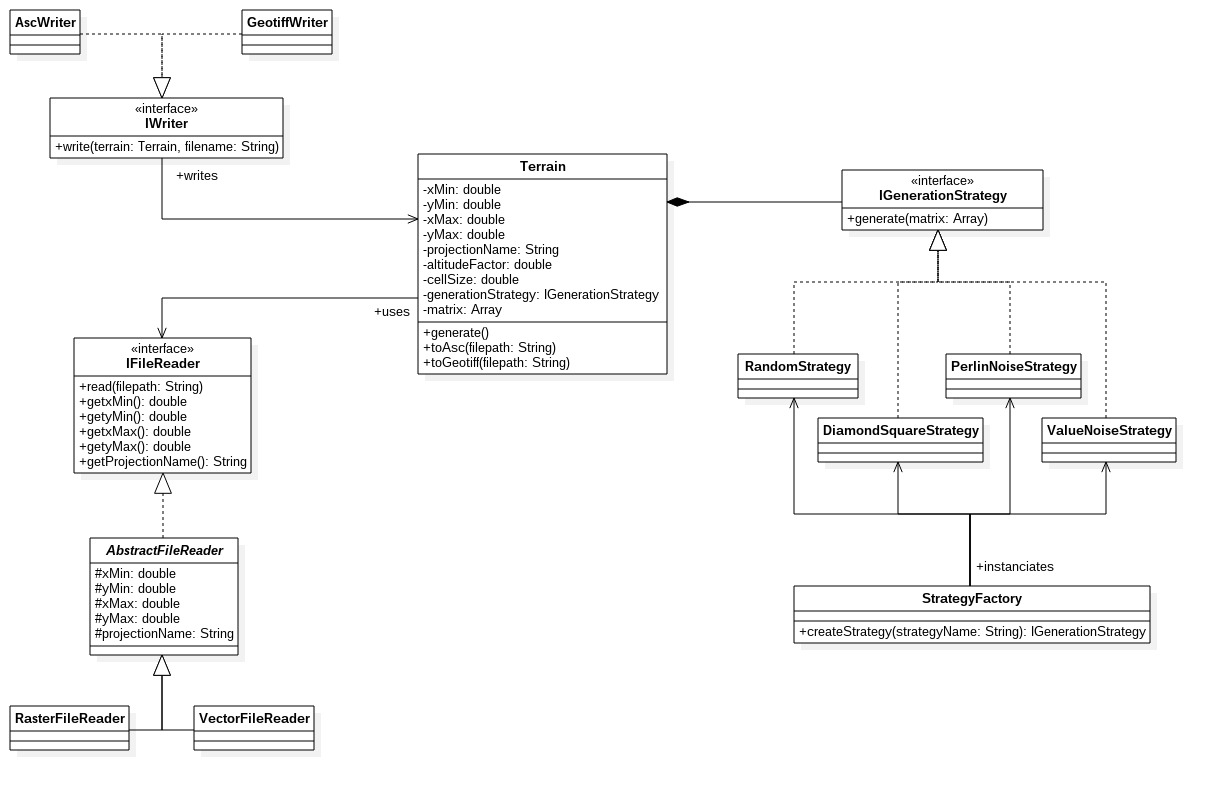
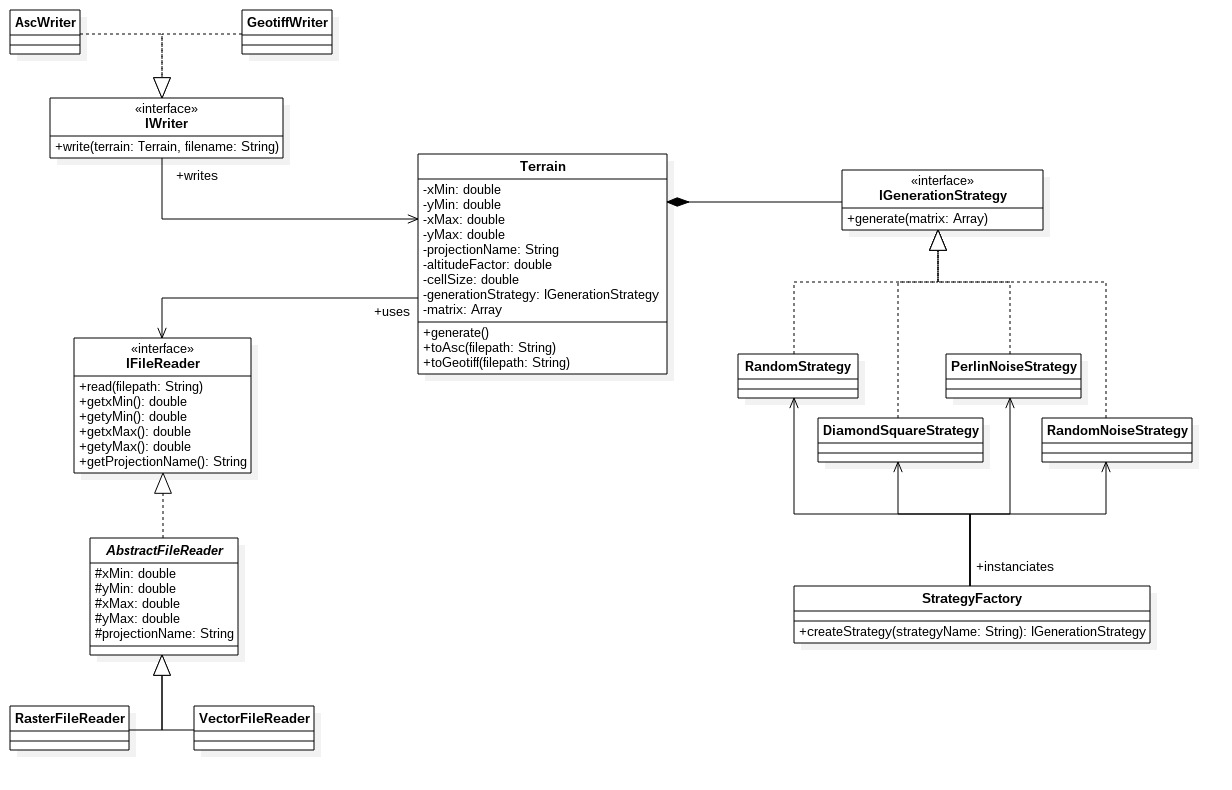
valueNoise -> randomNoise

diff --git a/src/main/java/eu/ensg/tsi/azarzelli/gama/generation/RandomNoiseStrategy.java b/src/main/java/eu/ensg/tsi/azarzelli/gama/generation/RandomNoiseStrategy.java
@@ -1,0 +1,58 @@
+package eu.ensg.tsi.azarzelli.gama.generation;
+
+/**
+ * Value noise DEM generation
+ */
+public final class RandomNoiseStrategy implements IGenerationStrategy {
+
+    /**
+     * Fills a matrix with generated values
+     * @param matrix
+     */
+    @Override
+    public void generate(double[][] matrix) {
+    	int nrows = matrix.length;
+        int ncols = matrix[0].length;
+        
+        // Getting the largest dimension of the matrix
+        int largestDimension = Math.max(nrows, ncols);
+        
+        int powerOfTwo = largestDimension;
+        // Calculating the smallest power of 2 above the largest dimension 
+        // if it isn't a power of 2 itself using bitwise shift, and adding one
+        if (Integer.highestOneBit(largestDimension) != Integer.lowestOneBit(largestDimension)) {
+        	powerOfTwo = Integer.highestOneBit(largestDimension << 1);
+        } 
+        
+        
+        double[][] firstSquare = new double[powerOfTwo][powerOfTwo];
+        
+        while(powerOfTwo>=1) {
+        	octave(firstSquare, powerOfTwo);
+        	powerOfTwo /= 2;
+        }
+        
+        for(int y = 0; y < matrix.length; y++) {
+        	for(int x = 0; x < matrix[0].length; x++) {
+        		matrix[y][x] = firstSquare[y][x];
+        	}
+        }
+    }
+    
+    private void octave(double[][] matrix, int octaveLength) {
+    	
+    	for (int i = 0; i<matrix.length; i+=octaveLength) {
+        	for (int j = 0; j<matrix[0].length; j+=octaveLength) {
+    	
+        		double newValue = Math.random() * octaveLength;
+    	
+		    	for (int y = 0; y<i; y++) {
+		        	for (int x = 0; x<j; x++) {
+		        		matrix[y][x] += newValue;
+		        	}
+		        }
+        	}
+    	}
+    }
+
+}

diff --git a/src/main/java/eu/ensg/tsi/azarzelli/gama/domain/StrategyFactory.java b/src/main/java/eu/ensg/tsi/azarzelli/gama/domain/StrategyFactory.java
@@ -5,7 +5,7 @@ import eu.ensg.tsi.azarzelli.gama.generation.DiamondSquareStrategy;
 import eu.ensg.tsi.azarzelli.gama.generation.IGenerationStrategy;
 import eu.ensg.tsi.azarzelli.gama.generation.PerlinNoiseStrategy;
 import eu.ensg.tsi.azarzelli.gama.generation.RandomStrategy;
-import eu.ensg.tsi.azarzelli.gama.generation.ValueNoiseStrategy;
+import eu.ensg.tsi.azarzelli.gama.generation.RandomNoiseStrategy;
 
 /**
  * Factory class for the strategies, used to encapsulate the creation
@@ -27,8 +27,8 @@ public class StrategyFactory {
         	return new DiamondSquareStrategy();
         } else if (strategyName.equals("perlinnoise")) {
         	return new PerlinNoiseStrategy();
-        } else if (strategyName.equals("valuenoise")) {
-        	return new ValueNoiseStrategy();
+        } else if (strategyName.equals("randomnoise")) {
+        	return new RandomNoiseStrategy();
         } else {
         	throw new GenerationMethodNotFoundException();
         }

diff --git a/src/test/java/eu/ensg/tsi/azarzelli/gama/domain/StrategyFactoryTest.java b/src/test/java/eu/ensg/tsi/azarzelli/gama/domain/StrategyFactoryTest.java
@@ -9,7 +9,7 @@ import eu.ensg.tsi.azarzelli.gama.generation.DiamondSquareStrategy;
 import eu.ensg.tsi.azarzelli.gama.generation.IGenerationStrategy;
 import eu.ensg.tsi.azarzelli.gama.generation.PerlinNoiseStrategy;
 import eu.ensg.tsi.azarzelli.gama.generation.RandomStrategy;
-import eu.ensg.tsi.azarzelli.gama.generation.ValueNoiseStrategy;
+import eu.ensg.tsi.azarzelli.gama.generation.RandomNoiseStrategy;
 
 public class StrategyFactoryTest {
 
@@ -30,8 +30,8 @@ public class StrategyFactoryTest {
 		strategy = factory.createStrategy("perlinnoise");
 		assertTrue(strategy instanceof PerlinNoiseStrategy);
 		
-		strategy = factory.createStrategy("valuenoise");
-		assertTrue(strategy instanceof ValueNoiseStrategy);
+		strategy = factory.createStrategy("randomnoise");
+		assertTrue(strategy instanceof RandomNoiseStrategy);
 		
 		strategy = factory.createStrategy("diamondsquare");
 		assertTrue(strategy instanceof DiamondSquareStrategy);

diff --git a/src/test/java/eu/ensg/tsi/azarzelli/gama/domain/TerrainTest.java b/src/test/java/eu/ensg/tsi/azarzelli/gama/domain/TerrainTest.java
@@ -123,6 +123,10 @@ public class TerrainTest {
 		Terrain terrain = new Terrain("diamondsquare",128,128);
 		terrain.generate();
 		terrain.toGeotiff("src/test/resources/diamondsquare.tif");
+		
+		terrain.setAltitudeFactor(1000);
+		terrain.generate();
+		terrain.toGeotiff("src/test/resources/diamondsquare1000.tif");
 	}
 
 }

diff --git a/src/main/java/eu/ensg/tsi/azarzelli/gama/domain/Terrain.java b/src/main/java/eu/ensg/tsi/azarzelli/gama/domain/Terrain.java
@@ -232,6 +232,12 @@ public class Terrain {
 		return projectionName;
 	}
 
+	// Setters --------------------------------------------
+	
+	public void setAltitudeFactor(double altitudeFactor) {
+		this.altitudeFactor = altitudeFactor;
+	}
+	
 	
 	// Methods --------------------------------------------
 
